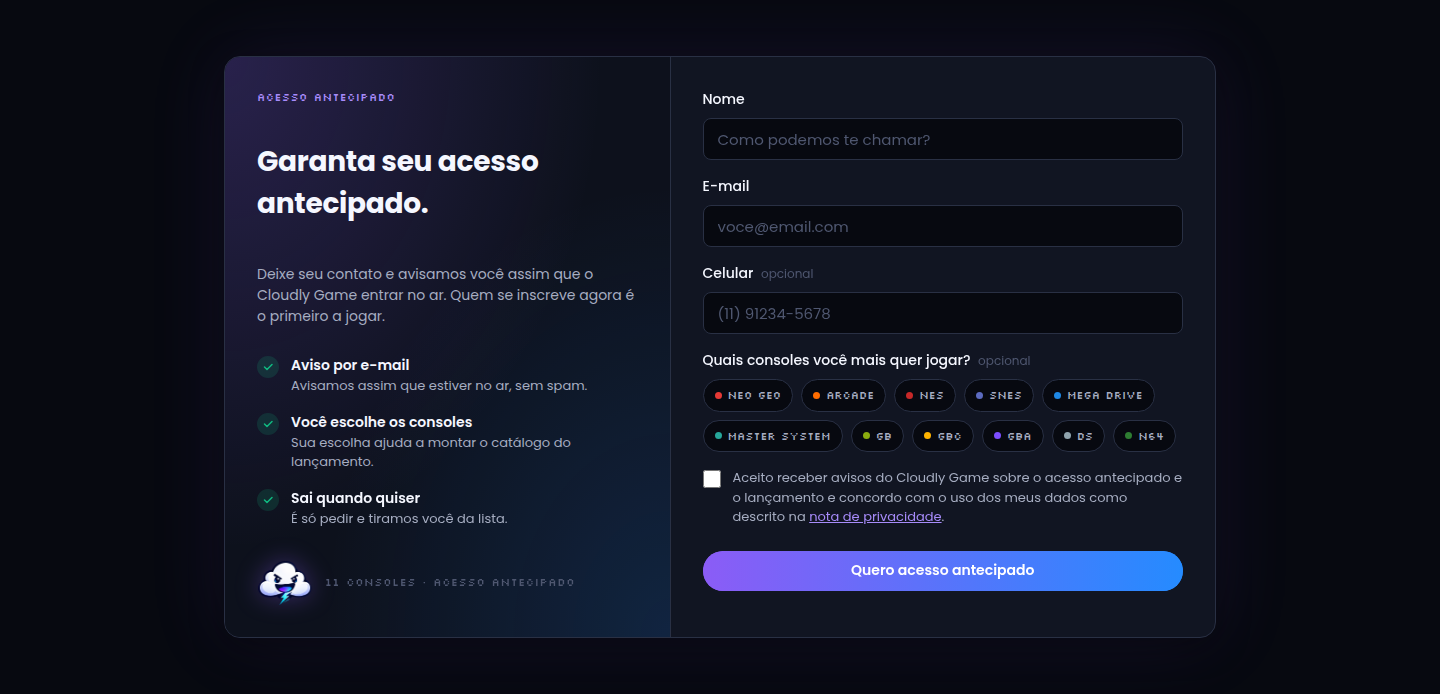
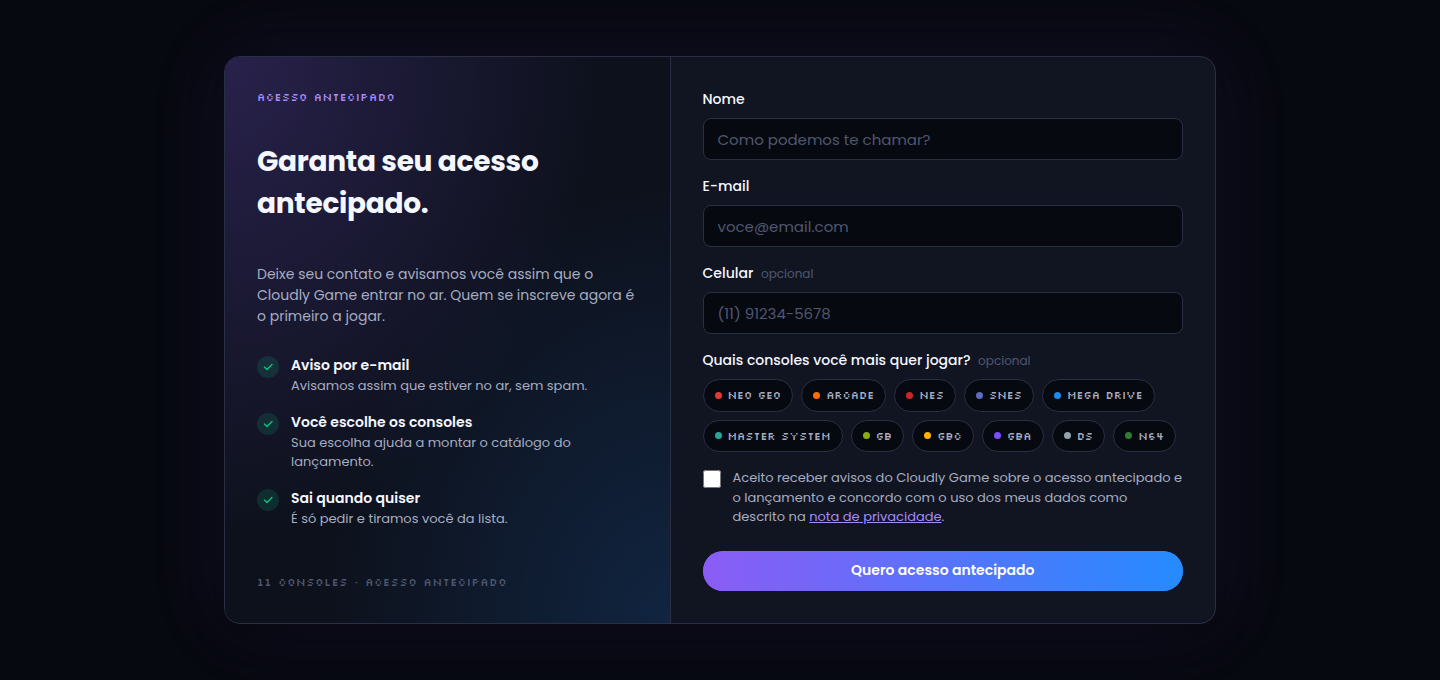
chore: remove the mascot from the early access panel

diff --git a/index.html b/index.html
@@ -279,7 +279,6 @@
             <li><span class="check" aria-hidden="true"><svg viewBox="0 0 24 24" width="12" height="12" fill="none" stroke="currentColor" stroke-width="3" stroke-linecap="round" stroke-linejoin="round"><path d="M5 12l5 5L20 7" /></svg></span><span><strong>Sai quando quiser</strong>É só pedir e tiramos você da lista.</span></li>
           </ul>
           <div class="signup-footer">
-            <img src="assets/mascot-sm.png" alt="" width="56" height="45" />
             <span>11 consoles · acesso antecipado</span>
           </div>
         </div>

diff --git a/styles.css b/styles.css
@@ -814,8 +814,6 @@ h3 { font-size: 20px; font-weight: 600; }
   text-transform: uppercase;
 }
 
-.signup-footer img { width: 56px; height: auto; filter: drop-shadow(0 0 12px rgba(139, 92, 246, 0.35)); }
-
 .form, .success { padding: 32px; }
 
 .success { display: flex; flex-direction: column; align-items: center; justify-content: center; }
